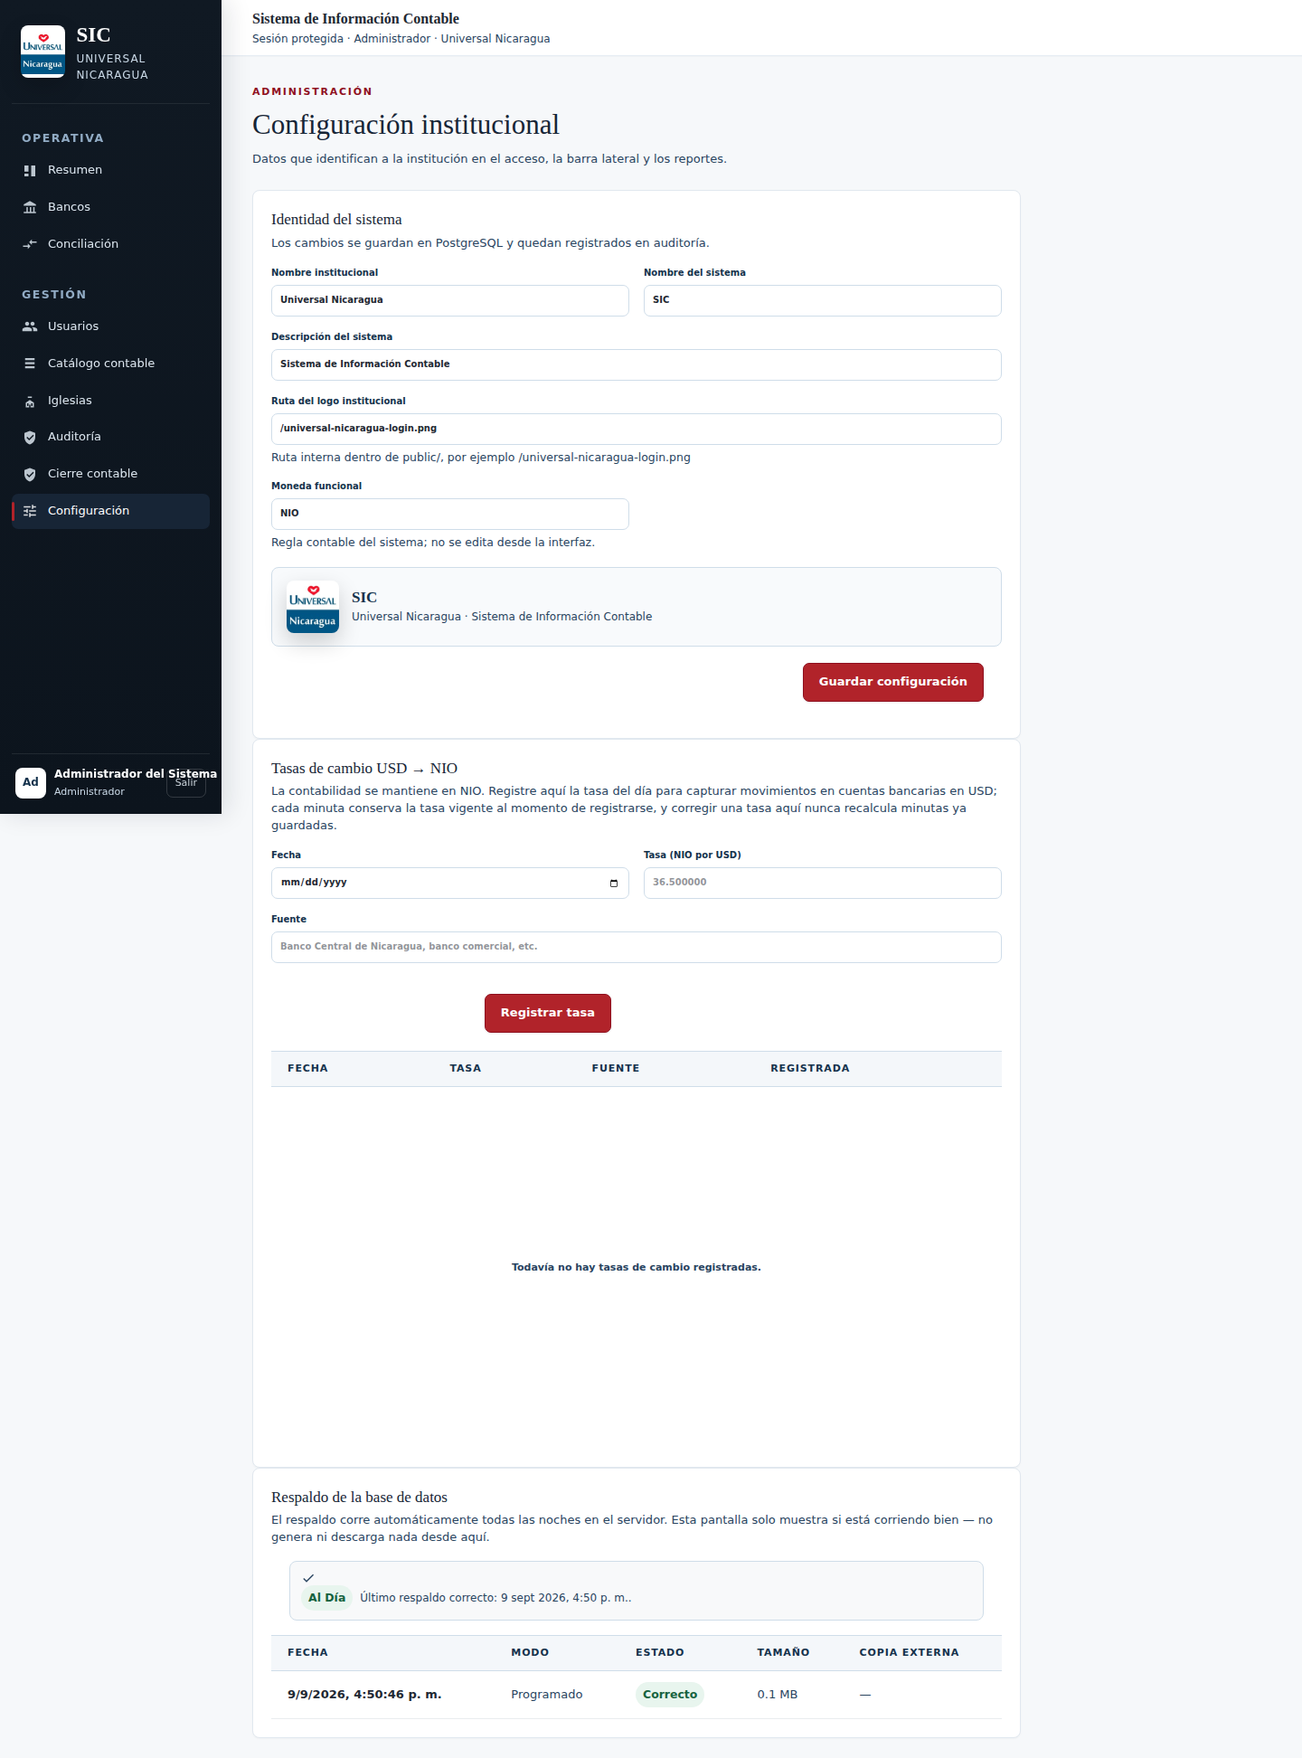
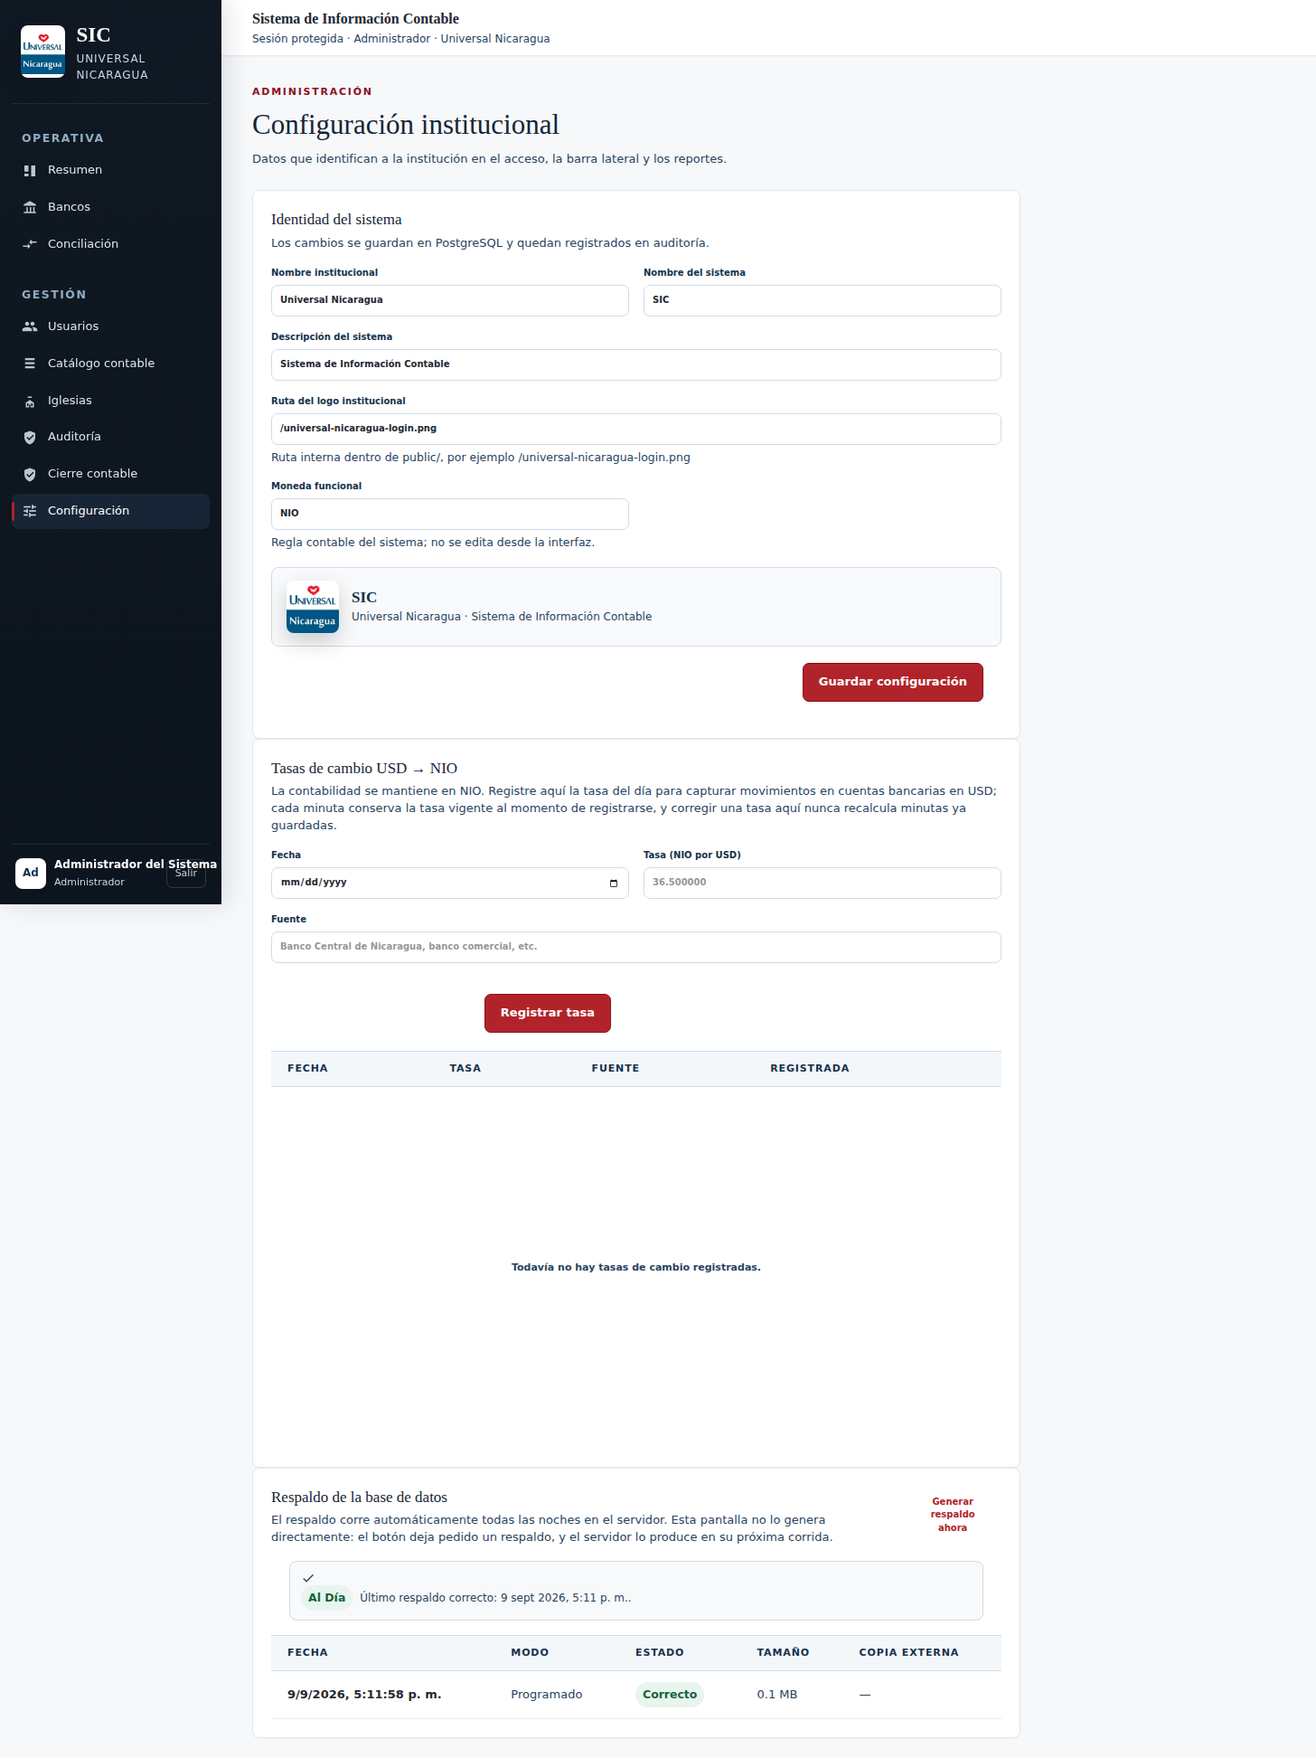
feat: agrega el boton "Generar respaldo ahora" al panel de respaldos
La app no puede ejecutar pg_dump directamente (restriccion del runtime
Workers/workerd), asi que el boton solo deja pedido un respaldo en una
tabla de solicitudes; un modo corto del script de respaldo
(--atender-solicitudes), pensado para correr cada pocos minutos por
cron, resuelve todas las solicitudes pendientes con un unico dump.

- Nueva tabla respaldos_solicitudes (migracion 0027) y
  solicitarRespaldo() idempotente en lib/respaldo.ts.
- POST /api/respaldos: admin-gated, rate-limited, auditado.
- Panel de Configuracion: boton, banner de solicitud pendiente y aviso
  de demora si pasan 10 minutos sin atenderse.
- scripts/respaldo-postgresql.sh: nuevo modo --atender-solicitudes;
  fix de un bug real donde faltaba -q en psql y contaminaba la captura
  del id con el tag "INSERT 0 1".
- Manual de usuario cap. 15: documenta el boton y el segundo cron.

Verificado end-to-end contra PostgreSQL real: 37/37 tests (incluye 6
nuevos), tsc y lint limpios, y flujo completo boton -> solicitud
pendiente -> resolucion por el script -> banner despejado, probado en
el navegador.

Claude-Session: https://claude.ai/code/session_018Yd5DXaZMKTNaeLeKLyEZg

diff --git a/lib/respaldo.ts b/lib/respaldo.ts
@@ -1,10 +1,11 @@
-import { desc } from "drizzle-orm";
+import { desc, eq } from "drizzle-orm";
 import type { getDb } from "../db";
-import { respaldosSistema } from "../db/schema";
+import { respaldosSistema, respaldosSolicitudes } from "../db/schema";
 
 type Db = ReturnType<typeof getDb>;
 
 export type EventoRespaldo = typeof respaldosSistema.$inferSelect;
+export type SolicitudRespaldo = typeof respaldosSolicitudes.$inferSelect;
 export type SaludRespaldo = "al_dia" | "atrasado" | "critico" | "sin_datos";
 
 export type EstadoRespaldos = {
@@ -12,6 +13,7 @@ export type EstadoRespaldos = {
   mensaje: string;
   ultimoCorrecto: EventoRespaldo | null;
   recientes: EventoRespaldo[];
+  solicitudPendiente: (SolicitudRespaldo & { minutosPendiente: number; demorada: boolean }) | null;
 };
 
 /** Ventanas de tolerancia para el respaldo nocturno: dan margen a que cron corra un poco
@@ -19,6 +21,11 @@ export type EstadoRespaldos = {
  *  antes de mostrar crítico. Se asume una corrida programada por día. */
 const HORAS_ATRASO_ADVERTENCIA = 26;
 const HORAS_ATRASO_CRITICO = 50;
+
+/** Minutos a partir de los cuales una solicitud pendiente se marca como "demorada": el
+ *  cron corto (--atender-solicitudes) está pensado para correr cada pocos minutos, así
+ *  que pasado este margen lo más probable es que no esté programado en el servidor. */
+const MINUTOS_SOLICITUD_DEMORADA = 10;
 
 /**
  * Estado de los respaldos para la pantalla de Configuración. No lee el disco del servidor
@@ -28,7 +35,17 @@ const HORAS_ATRASO_CRITICO = 50;
  * un registro con estado "error".
  */
 export async function obtenerEstadoRespaldos(db: Db): Promise<EstadoRespaldos> {
-  const recientes = await db.select().from(respaldosSistema).orderBy(desc(respaldosSistema.iniciadoEn)).limit(20);
+  const [recientes, solicitudFila] = await Promise.all([
+    db.select().from(respaldosSistema).orderBy(desc(respaldosSistema.iniciadoEn)).limit(20),
+    db.select().from(respaldosSolicitudes).where(eq(respaldosSolicitudes.estado, "pendiente")).orderBy(respaldosSolicitudes.solicitadoEn).limit(1),
+  ]);
+
+  const solicitudPendiente = solicitudFila[0]
+    ? (() => {
+        const minutosPendiente = Math.round((Date.now() - solicitudFila[0].solicitadoEn.getTime()) / 60_000);
+        return { ...solicitudFila[0], minutosPendiente, demorada: minutosPendiente >= MINUTOS_SOLICITUD_DEMORADA };
+      })()
+    : null;
 
   if (!recientes.length) {
     return {
@@ -36,6 +53,7 @@ export async function obtenerEstadoRespaldos(db: Db): Promise<EstadoRespaldos> {
       mensaje: "Todavía no hay ningún respaldo registrado. Verifique que scripts/respaldo-postgresql.sh esté programado en el servidor.",
       ultimoCorrecto: null,
       recientes: [],
+      solicitudPendiente,
     };
   }
 
@@ -43,7 +61,7 @@ export async function obtenerEstadoRespaldos(db: Db): Promise<EstadoRespaldos> {
   const ultimo = recientes[0];
 
   if (!ultimoCorrecto) {
-    return { salud: "critico", mensaje: "Ningún respaldo reciente terminó correctamente.", ultimoCorrecto: null, recientes };
+    return { salud: "critico", mensaje: "Ningún respaldo reciente terminó correctamente.", ultimoCorrecto: null, recientes, solicitudPendiente };
   }
 
   const horasDesdeUltimo = (Date.now() - ultimoCorrecto.iniciadoEn.getTime()) / 3_600_000;
@@ -54,6 +72,7 @@ export async function obtenerEstadoRespaldos(db: Db): Promise<EstadoRespaldos> {
       mensaje: `El respaldo más reciente falló (${fechaLegible(ultimo.iniciadoEn)}). El último correcto fue ${fechaLegible(ultimoCorrecto.iniciadoEn)}.`,
       ultimoCorrecto,
       recientes,
+      solicitudPendiente,
     };
   }
   if (horasDesdeUltimo > HORAS_ATRASO_CRITICO) {
@@ -62,6 +81,7 @@ export async function obtenerEstadoRespaldos(db: Db): Promise<EstadoRespaldos> {
       mensaje: `No hay un respaldo correcto desde ${fechaLegible(ultimoCorrecto.iniciadoEn)}. Verifique que el respaldo programado siga corriendo en el servidor.`,
       ultimoCorrecto,
       recientes,
+      solicitudPendiente,
     };
   }
   if (horasDesdeUltimo > HORAS_ATRASO_ADVERTENCIA) {
@@ -70,6 +90,7 @@ export async function obtenerEstadoRespaldos(db: Db): Promise<EstadoRespaldos> {
       mensaje: `El último respaldo correcto fue ${fechaLegible(ultimoCorrecto.iniciadoEn)}. Debería haber uno más reciente.`,
       ultimoCorrecto,
       recientes,
+      solicitudPendiente,
     };
   }
   return {
@@ -77,7 +98,30 @@ export async function obtenerEstadoRespaldos(db: Db): Promise<EstadoRespaldos> {
     mensaje: `Último respaldo correcto: ${fechaLegible(ultimoCorrecto.iniciadoEn)}.`,
     ultimoCorrecto,
     recientes,
+    solicitudPendiente,
   };
+}
+
+export type ResultadoSolicitud = { creada: boolean; solicitud: SolicitudRespaldo };
+
+/**
+ * Deja pedido un respaldo manual para que scripts/respaldo-postgresql.sh
+ * --atender-solicitudes lo genere en su próxima corrida (pensada cada pocos minutos). La
+ * aplicación nunca ejecuta pg_dump por sí misma.
+ *
+ * Idempotente: si ya hay una solicitud pendiente, no crea una segunda — dos clics seguidos
+ * (o dos administradores a la vez) no deben encolar dos respaldos.
+ */
+export async function solicitarRespaldo(db: Db, usuario: { id: string; nombre: string }): Promise<ResultadoSolicitud> {
+  const [pendiente] = await db.select().from(respaldosSolicitudes)
+    .where(eq(respaldosSolicitudes.estado, "pendiente")).orderBy(respaldosSolicitudes.solicitadoEn).limit(1);
+  if (pendiente) return { creada: false, solicitud: pendiente };
+
+  const [solicitud] = await db.insert(respaldosSolicitudes).values({
+    solicitadoPor: usuario.id,
+    solicitadoPorNombre: usuario.nombre,
+  }).returning();
+  return { creada: true, solicitud };
 }
 
 function fechaLegible(fecha: Date) {

diff --git a/app/modules/ConfiguracionInstitucional.tsx b/app/modules/ConfiguracionInstitucional.tsx
@@ -24,6 +24,7 @@ export default function ConfiguracionInstitucional({ config, onSaved, notify }: 
   const [savingTasa, setSavingTasa] = useState(false);
   const [respaldos, setRespaldos] = useState<EstadoRespaldos | null>(null);
   const [respaldosError, setRespaldosError] = useState("");
+  const [solicitandoRespaldo, setSolicitandoRespaldo] = useState(false);
 
   async function cargarRespaldos() {
     try {
@@ -32,6 +33,21 @@ export default function ConfiguracionInstitucional({ config, onSaved, notify }: 
       if (response.ok) setRespaldos(data);
       else setRespaldosError(data.error ?? "No se pudo consultar el estado de los respaldos");
     } catch { setRespaldosError("No se pudo conectar con el servicio de respaldos"); }
+  }
+
+  /** No ejecuta el respaldo: solo deja la solicitud pedida. El servidor la atiende en su
+   *  próxima corrida programada (cada pocos minutos) — ver capítulo 15 del manual. */
+  async function solicitarRespaldo() {
+    setSolicitandoRespaldo(true); setRespaldosError("");
+    try {
+      const response = await fetch("/api/respaldos", { method: "POST" });
+      const data = await response.json().catch(() => ({})) as { creada?: boolean; error?: string };
+      if (!response.ok) return setRespaldosError(data.error ?? "No se pudo solicitar el respaldo");
+      await cargarRespaldos();
+      notify(data.creada ? "Respaldo solicitado. El servidor lo generará en los próximos minutos." : "Ya había una solicitud de respaldo pendiente.");
+    } catch {
+      setRespaldosError("No se pudo conectar con el servicio de respaldos");
+    } finally { setSolicitandoRespaldo(false); }
   }
 
   async function cargarTasas() {
@@ -121,13 +137,23 @@ export default function ConfiguracionInstitucional({ config, onSaved, notify }: 
     </section>
 
     <section className="panel formPanel">
-      <div className="panelHead compact"><div><h2>Respaldo de la base de datos</h2><p>El respaldo corre automáticamente todas las noches en el servidor. Esta pantalla solo muestra si está corriendo bien — no genera ni descarga nada desde aquí.</p></div></div>
+      <div className="panelHead compact">
+        <div><h2>Respaldo de la base de datos</h2><p>El respaldo corre automáticamente todas las noches en el servidor. Esta pantalla no lo genera directamente: el botón deja pedido un respaldo, y el servidor lo produce en su próxima corrida.</p></div>
+        <button className="secondary" type="button" onClick={solicitarRespaldo} disabled={solicitandoRespaldo || Boolean(respaldos?.solicitudPendiente)}>
+          {solicitandoRespaldo ? "Solicitando…" : respaldos?.solicitudPendiente ? "Solicitud en curso…" : "Generar respaldo ahora"}
+        </button>
+      </div>
       {respaldosError ? <div className="authError adminError">{respaldosError}</div> : null}
       {respaldos ? <>
         <div className="accountHint"><MenuIcon name={respaldos.salud === "al_dia" ? "check" : "info"} className="glyphIcon"/><span>
           <span className={CLASE_SALUD[respaldos.salud]} style={{ marginRight: 8 }}>{ETIQUETA_SALUD[respaldos.salud]}</span>
           {respaldos.mensaje}
         </span></div>
+        {respaldos.solicitudPendiente ? <div className={respaldos.solicitudPendiente.demorada ? "authError adminError" : "readOnlyBanner"}>
+          {respaldos.solicitudPendiente.demorada
+            ? `Hay una solicitud de respaldo pendiente desde hace ${respaldos.solicitudPendiente.minutosPendiente} minutos sin atenderse. Verifique que "respaldo-postgresql.sh --atender-solicitudes" esté programado en el servidor.`
+            : `Solicitud de respaldo enviada por ${respaldos.solicitudPendiente.solicitadoPorNombre}, en espera de que el servidor la genere.`}
+        </div> : null}
         {respaldos.recientes.length ? <div className="tableWrap"><table><thead><tr><th>FECHA</th><th>MODO</th><th>ESTADO</th><th>TAMAÑO</th><th>COPIA EXTERNA</th></tr></thead><tbody>{respaldos.recientes.map(evento => <tr key={evento.id}>
           <td><b>{new Date(evento.iniciadoEn).toLocaleString("es-NI")}</b></td>
           <td>{evento.modo === "programado" ? "Programado" : "Manual"}</td>

diff --git a/app/api/respaldos/route.ts b/app/api/respaldos/route.ts
@@ -1,11 +1,15 @@
 import { getDb } from "../../../db";
+import { registrarAuditoria } from "../../../lib/auditoria";
 import { jsonError, puede, usuarioDesdeRequest } from "../../../lib/auth";
-import { obtenerEstadoRespaldos } from "../../../lib/respaldo";
+import { obtenerEstadoRespaldos, solicitarRespaldo } from "../../../lib/respaldo";
+import { verificarRateLimit } from "../../../lib/security";
 
 /**
- * Solo lectura, deliberadamente. Generar un respaldo es tarea de scripts/respaldo-postgresql.sh
- * en el servidor, no de un botón en el navegador; esta ruta únicamente muestra lo que esa
- * bitácora ya registró, para que el administrador vea el estado sin entrar a una terminal.
+ * Solo lectura para generar el respaldo: esta ruta puede DEJAR PEDIDO un respaldo manual,
+ * pero nunca ejecuta pg_dump por sí misma — esa restricción es del runtime en el que corre
+ * la aplicación (Cloudflare Workers / workerd), no de dónde esté alojado el servidor. Un
+ * cron corto en el servidor (scripts/respaldo-postgresql.sh --atender-solicitudes) es
+ * quien realmente genera el archivo y resuelve la solicitud.
  */
 export async function GET(request: Request) {
   const user = await usuarioDesdeRequest(request);
@@ -18,5 +22,33 @@ export async function GET(request: Request) {
   } catch (error) {
     console.error("Backup status query failed", error);
     return jsonError("No se pudo consultar el estado de los respaldos", 500);
+  }
+}
+
+export async function POST(request: Request) {
+  const limited = verificarRateLimit(request, { keyPrefix: "respaldos:solicitar", limit: 5, windowMs: 60_000 });
+  if (limited) return limited;
+
+  const user = await usuarioDesdeRequest(request);
+  if (!user) return jsonError("No autenticado", 401);
+  if (!puede(user, "configuracion:administrar")) return jsonError("No tiene permiso para solicitar respaldos", 403);
+
+  const db = getDb();
+  try {
+    const resultado = await solicitarRespaldo(db, user);
+    if (resultado.creada) {
+      await registrarAuditoria(db, {
+        user,
+        modulo: "Respaldos",
+        accion: "Solicitó respaldo manual de la base de datos",
+        entidad: "respaldos_solicitudes",
+        entidadId: resultado.solicitud.id,
+        detalle: `Solicitud creada; el servidor la atenderá en su próxima corrida programada.`,
+      });
+    }
+    return Response.json(resultado, { status: resultado.creada ? 201 : 200, headers: { "Cache-Control": "no-store" } });
+  } catch (error) {
+    console.error("Backup request failed", error);
+    return jsonError("No se pudo solicitar el respaldo", 500);
   }
 }

diff --git a/db/schema.ts b/db/schema.ts
@@ -424,3 +424,23 @@ export const respaldosSistema = pgTable("respaldos_sistema", {
   check("ck_respaldos_sistema_estado", sql`${table.estado} in ('correcto', 'error')`),
   check("ck_respaldos_sistema_modo", sql`${table.modo} in ('programado', 'manual')`),
 ]);
+
+/**
+ * Cola del botón "Generar respaldo ahora". La aplicación solo puede insertar una fila
+ * aquí — no puede ejecutar pg_dump por sí misma. Un cron corto en el servidor (cada
+ * pocos minutos, ver scripts/respaldo-postgresql.sh --atender-solicitudes) revisa esta
+ * tabla y, si encuentra una solicitud pendiente, genera el respaldo y la marca resuelta,
+ * enlazándola con la fila que quedó en respaldos_sistema.
+ */
+export const respaldosSolicitudes = pgTable("respaldos_solicitudes", {
+  id: uuid("id").primaryKey().defaultRandom(),
+  solicitadoPor: varchar("solicitado_por", { length: 40 }).notNull().references(() => usuarios.id),
+  solicitadoPorNombre: text("solicitado_por_nombre").notNull(),
+  solicitadoEn: timestamp("solicitado_en", { withTimezone: true }).notNull().defaultNow(),
+  estado: varchar("estado", { length: 12, enum: ["pendiente", "completado", "error"] }).notNull().default("pendiente"),
+  atendidoEn: timestamp("atendido_en", { withTimezone: true }),
+  respaldoId: uuid("respaldo_id").references(() => respaldosSistema.id),
+}, (table) => [
+  index("idx_respaldos_solicitudes_estado").on(table.estado),
+  check("ck_respaldos_solicitudes_estado", sql`${table.estado} in ('pendiente', 'completado', 'error')`),
+]);

diff --git a/app/shared.ts b/app/shared.ts
@@ -28,7 +28,8 @@ export type ImportacionSituacionFinanciera = { id: string; archivoNombre: string
 export type PermisoAdmin = { id: Permiso; descripcion: string };
 export type SaludRespaldo = "al_dia" | "atrasado" | "critico" | "sin_datos";
 export type EventoRespaldo = { id: string; iniciadoEn: string; finalizadoEn: string | null; estado: "correcto" | "error"; modo: "programado" | "manual"; archivo: string; tamanoBytes: string | null; duracionSegundos: number | null; copiaSecundariaOk: boolean | null; servidor: string | null; mensaje: string | null };
-export type EstadoRespaldos = { salud: SaludRespaldo; mensaje: string; ultimoCorrecto: EventoRespaldo | null; recientes: EventoRespaldo[] };
+export type SolicitudRespaldo = { id: string; solicitadoPor: string; solicitadoPorNombre: string; solicitadoEn: string; estado: "pendiente" | "completado" | "error"; atendidoEn: string | null; respaldoId: string | null; minutosPendiente: number; demorada: boolean };
+export type EstadoRespaldos = { salud: SaludRespaldo; mensaje: string; ultimoCorrecto: EventoRespaldo | null; recientes: EventoRespaldo[]; solicitudPendiente: SolicitudRespaldo | null };
 export type RolAdmin = { id: string; nombre: string; descripcion: string; permisos: Permiso[] };
 export type UsuarioAdmin = { id: string; usuario: string; nombre: string; rolId: string; estado: "activo" | "inactivo"; creadoEn: string; rolNombre?: string | null };
 export type Iglesia = { codigo: string; nombre: string; estado?: "activa" | "inactiva" };

diff --git a/docs/manual-usuario.md b/docs/manual-usuario.md
@@ -1454,7 +1454,9 @@ El respaldo de la base de datos **no es un botón dentro del SIC**. Es un proces
 
 Debajo del estado hay una tabla con el historial: fecha, si fue automático o manual, si terminó correcto, el tamaño del archivo, y si además se copió a un destino externo.
 
-> **Esta pantalla no genera respaldos ni permite descargarlos.** Solo informa. Generar uno fuera de horario, o restaurar uno, son tareas técnicas que se hacen directamente en el servidor — ver 15.3 y 15.4.
+**Botón "Generar respaldo ahora".** El Administrador puede pedir un respaldo fuera del horario nocturno habitual, sin esperar a la próxima medianoche. El botón no genera el respaldo al instante: dentro del SIC no es técnicamente posible ejecutarlo directamente. Lo que hace es dejar la solicitud pedida, y el servidor la atiende en su próxima corrida programada (pensada para cada pocos minutos — ver 15.3). Mientras la solicitud está pendiente, la pantalla muestra un aviso ("Solicitud de respaldo enviada por…, en espera de que el servidor la genere") y el botón queda deshabilitado, para que dos administradores no encolen dos respaldos a la vez. Si la solicitud lleva más de 10 minutos sin atenderse, el aviso cambia de tono y sugiere verificar que el proceso corto esté programado en el servidor.
+
+> **Esta pantalla no genera respaldos por sí sola ni permite descargarlos.** Solo informa y, con el botón, solicita. Restaurar un respaldo es una tarea técnica que se hace directamente en el servidor — ver 15.4.
 
 ### 15.3 Para el responsable técnico: instalación
 
@@ -1476,11 +1478,15 @@ Dos archivos, ambos en `scripts/` del proyecto:
    ```
    0 1 * * * DATABASE_URL="postgresql://usuario:contraseña@localhost:5432/sic" /ruta/a/respaldo-postgresql.sh >> /var/log/sic-respaldo.log 2>&1
    ```
-4. **Configure un destino secundario.** Un respaldo que vive solo en el mismo servidor no protege contra que ese servidor falle. Defina `SIC_RESPALDOS_DESTINO_SECUNDARIO` apuntando a una unidad de red, un disco externo, o una carpeta sincronizada a otro sitio:
+4. **Programe también el proceso corto que atiende el botón "Generar respaldo ahora"** (ver 15.2), cada pocos minutos. Cuando no hay ninguna solicitud pendiente termina de inmediato, sin respaldar nada, así que no tiene costo dejarlo corriendo seguido:
+   ```
+   */5 * * * * DATABASE_URL="postgresql://usuario:contraseña@localhost:5432/sic" /ruta/a/respaldo-postgresql.sh --atender-solicitudes >> /var/log/sic-respaldo-solicitudes.log 2>&1
+   ```
+5. **Configure un destino secundario.** Un respaldo que vive solo en el mismo servidor no protege contra que ese servidor falle. Defina `SIC_RESPALDOS_DESTINO_SECUNDARIO` apuntando a una unidad de red, un disco externo, o una carpeta sincronizada a otro sitio:
    ```
    SIC_RESPALDOS_DESTINO_SECUNDARIO="/mnt/respaldo-externo/sic"
    ```
-5. Verifique que corrió: `Configuración → Respaldo de la base de datos` debe mostrar **Al día** al día siguiente.
+6. Verifique que corrió: `Configuración → Respaldo de la base de datos` debe mostrar **Al día** al día siguiente.
 
 **Variables de entorno que acepta el script** (todas opcionales salvo `DATABASE_URL`):
 
